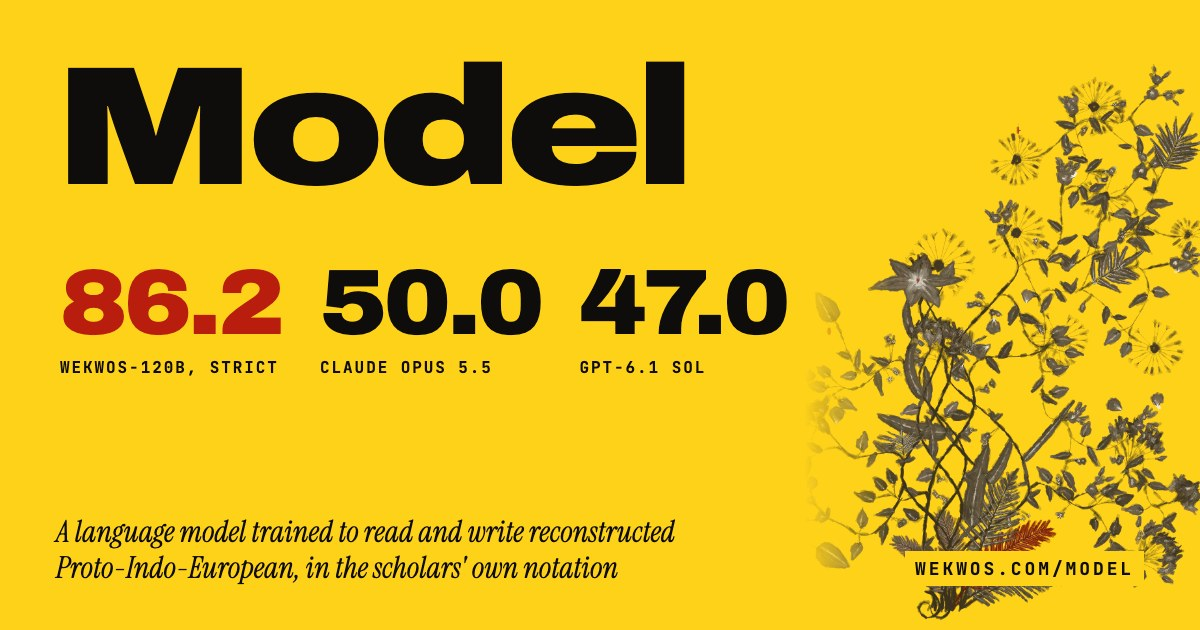
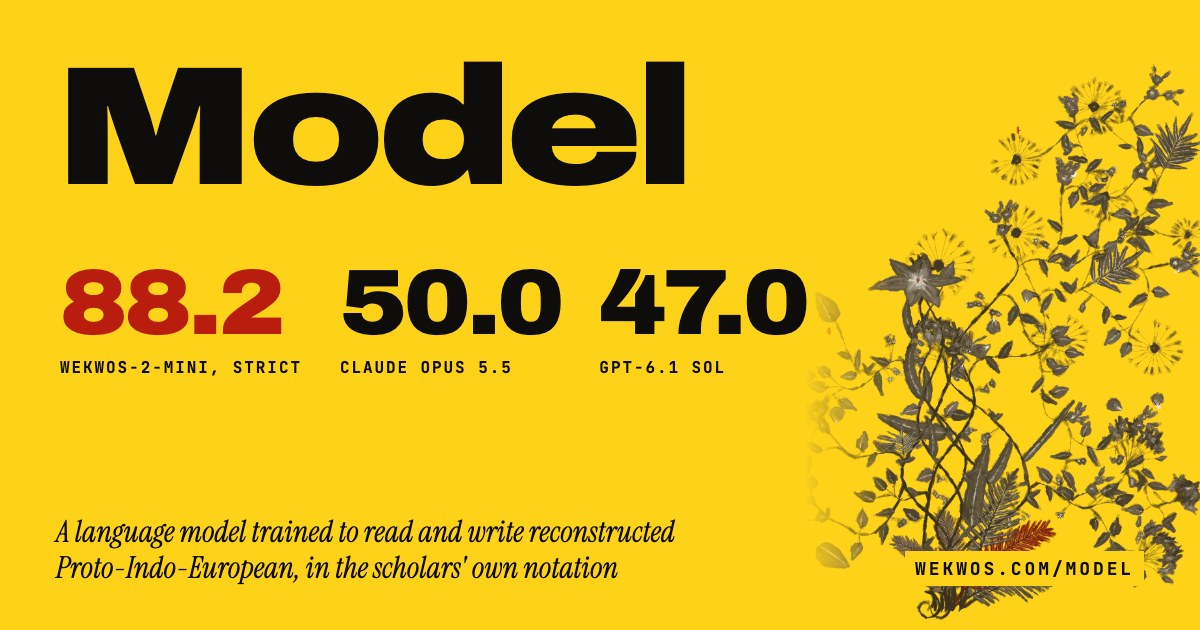
Update benchmarks and model page for Wekwos-2-Mini (88.2 strict / 90.5 lenient)

diff --git a/model.html b/model.html
@@ -5,24 +5,24 @@
 <script>/* light unless the reader chose dark (js/theme.js), set before the first paint */(function(r){var t;try{t=localStorage.getItem("pie-theme")}catch(e){}r.setAttribute("data-theme",t==="dark"?"dark":"light");if(t==="dark")r.classList.add("dark")})(document.documentElement)</script>
 <meta name="viewport" content="width=device-width,initial-scale=1">
 <title>How I trained a model to speak Proto-Indo-European · *PIE</title>
-<meta name="description" content="How I taught a language model to read and write Proto-Indo-European: an 8,368-entry lexicon, a deterministic grammar engine, a 133,982-word corpus, fine-tuning Nemotron 3.5 Super, and reinforcement learning, scoring 86.2 strict against 50.0 for the best frontier run.">
+<meta name="description" content="How I taught language models to read and write Proto-Indo-European: an 8,368-entry lexicon, a deterministic grammar engine, a 133,982-word corpus, fine-tuning, chain-of-thought, and reinforcement learning, with Wekwos-2-Mini scoring 88.2 strict against 50.0 for the best frontier run.">
 <link rel="canonical" href="https://wekwos.com/model">
 <meta name="theme-color" content="#ffd21a">
 <meta property="og:type" content="article">
 <meta property="og:site_name" content="*PIE">
 <meta property="og:title" content="How I trained a model to speak Proto-Indo-European · *PIE">
-<meta property="og:description" content="A lexicon, a grammar engine, a corpus composed through it, fine-tuning and reinforcement learning: Wekwos-120B scores 86.2 strict on my benchmark against 50.0 for Claude Opus 5.5.">
+<meta property="og:description" content="A lexicon, a grammar engine, a corpus composed through it, engine-verified CoT fine-tuning and GRPO reinforcement learning: Wekwos-2-Mini scores 88.2 strict (90.5 lenient) on my benchmark against 50.0 for Claude Opus 5.5.">
 <meta property="og:url" content="https://wekwos.com/model">
 <meta property="og:image" content="https://wekwos.com/art/og/model.jpg">
 <meta property="og:image:width" content="1200">
 <meta property="og:image:height" content="630">
-<meta property="og:image:alt" content="The word Model above the benchmark scores: 86.2 strict for Wekwos-120B against 50.0 for Claude Opus 5.5 and 47.0 for GPT-6.1 Sol.">
+<meta property="og:image:alt" content="The word Model above the benchmark scores: 88.2 strict for Wekwos-2-Mini against 50.0 for Claude Opus 5.5 and 47.0 for GPT-6.1 Sol.">
 <meta property="og:locale" content="en_US">
 <meta name="twitter:card" content="summary_large_image">
 <meta name="twitter:title" content="How I trained a model to speak Proto-Indo-European · *PIE">
-<meta name="twitter:description" content="A lexicon, a grammar engine, a corpus composed through it, fine-tuning and reinforcement learning: Wekwos-120B scores 86.2 strict against 50.0 for the best frontier run.">
+<meta name="twitter:description" content="A lexicon, a grammar engine, a corpus composed through it, engine-verified CoT fine-tuning and GRPO RL: Wekwos-2-Mini scores 88.2 strict against 50.0 for the best frontier run.">
 <meta name="twitter:image" content="https://wekwos.com/art/og/model.jpg">
-<meta name="twitter:image:alt" content="The word Model above the benchmark scores: 86.2 strict for Wekwos-120B against 50.0 for Claude Opus 5.5 and 47.0 for GPT-6.1 Sol.">
+<meta name="twitter:image:alt" content="The word Model above the benchmark scores: 88.2 strict for Wekwos-2-Mini against 50.0 for Claude Opus 5.5 and 47.0 for GPT-6.1 Sol.">
 <link rel="apple-touch-icon" href="art/icon-180.png">
 <link rel="manifest" href="site.webmanifest">
 <script type="application/ld+json">{"@context": "https://schema.org", "@type": "TechArticle", "headline": "How I trained a model to speak Proto-Indo-European", "url": "https://wekwos.com/model", "inLanguage": "en", "author": {"@type": "Person", "name": "David Torcivia", "url": "https://davidtorcivia.com"}, "about": ["Proto-Indo-European", "language model", "fine-tuning", "reinforcement learning", "historical linguistics"], "isPartOf": {"@type": "WebSite", "name": "*PIE", "url": "https://wekwos.com/"}}</script>
@@ -73,37 +73,37 @@
 
   <section class="sec" id="result">
     <h2 class="display v-h2"><span>The result</span></h2>
-    <p class="lead book"><span class="ini drop">O</span>n my held-out benchmark, the final model scores 88.5 lenient and 86.2 strict. The strongest frontier runs I tested (Claude Opus 5.5 at xhigh and GPT-6.1 Sol at high) hit 86.0 and 84.4 lenient, then drop to 50.0 and 47.0 strict. Lenient scoring ignores notation (accents, vowel length, ASCII spellings like h2 for h₂) and only checks the grammar. Strict scoring requires the actual scholarly form. Frontier models lose more than 35 points under strict grading; mine loses 2.3.</p>
+    <p class="lead book"><span class="ini drop">O</span>n my held-out benchmark, my top model, Wekwos-2-Mini (trained on Thinking Machines' Inkling 2 Mini with engine-verified chain of thought and GRPO RL), scores 90.5 lenient and 88.2 strict. It edges past my earlier 120B flagship, Wekwos-120B (Nemotron 3.5 Super, 88.5 lenient and 86.2 strict), at a fraction of the size. The strongest frontier runs I tested (Claude Opus 5.5 at xhigh and GPT-6.1 Sol at high) hit 86.0 and 84.4 lenient, then drop to 50.0 and 47.0 strict. Lenient scoring ignores notation (accents, vowel length, ASCII spellings like h2 for h₂) and only checks the grammar. Strict scoring requires the actual scholarly form. Frontier models lose more than 35 points under strict grading; mine lose 2.3.</p>
     <div class="nums" aria-label="Headline numbers">
-      <div><b class="display">86.2</b><span class="serif">strict benchmark score, vs. 50.0 for Claude Opus 5.5 and 47.0 for GPT-6.1 Sol</span></div>
+      <div><b class="display">88.2</b><span class="serif">strict benchmark score for Wekwos-2-Mini (90.5 lenient), vs. 50.0 for Claude Opus 5.5 and 47.0 for GPT-6.1 Sol</span></div>
       <div><b class="display">98.8%</b><span class="serif">of Wiktionary's inflection cells regenerated from scratch by the grammar engine</span></div>
-      <div><b class="display" style="white-space:nowrap">78 → 3</b><span class="serif">English words the model failed to produce in PIE, before and after the last training rounds</span></div>
+      <div><b class="display" style="white-space:nowrap">+8.5</b><span class="serif">strict points gained on Inkling 2 Mini just from adding engine-verified chain of thought before RL</span></div>
       <div><b class="display">133,982</b><span class="serif">words of PIE composed through the engine and checked in adversarial review</span></div>
     </div>
     <p class="book">The hard part was building the training data. There are no native speakers, no recordings, and no ancient texts to scrape, only a century and a half of comparative scholarship written in a dense notation: three laryngeals (h₁, h₂, h₃), three rows of back consonants (ḱ, k, kʷ), breathy-voiced stops, syllabic resonants, and pitch accents. Because PIE was only ever spoken, even the handbooks disagree on details of pronunciation and spelling. A model can't pick that up from Common Crawl the way it picks up French. I was honestly surprised how well frontier models did on lenient grading (mostly thanks to famous reconstructions like Schleicher's fable floating around in pretraining), but getting a model to write clean, consistent PIE took a proper lexicon, a deterministic grammar engine, and a corpus built through both.</p>
     <figure class="fig" id="fig1">
       <div class="chart" id="chBench"></div>
-      <figcaption class="serif"><b>Figure 1.</b> The benchmark. Solid bars are the strict score, the hatched extension is lenient. The overall score weights English → PIE 30, inflection and PIE → English 20 each, paradigms and dialogue 15 each. Wekwos-120B is a fine-tuned Nemotron 3.5 Super.</figcaption>
+      <figcaption class="serif"><b>Figure 1.</b> The benchmark. Solid bars are the strict score, the hatched extension is lenient. The overall score weights English → PIE 30, inflection and PIE → English 20 each, paradigms and dialogue 15 each. Wekwos-2-Mini is Inkling 2 Mini (CoT SFT + GRPO RL, scored by the Opus judge with engine tools, where Wekwos-120B scores 86.1 strict / 88.3 lenient); Wekwos-120B is a fine-tuned Nemotron 3.5 Super.</figcaption>
     </figure>
     <figure class="fig fig-ex" id="fig1b">
       <div class="bex">
         <article class="bex-card">
           <header class="bex-head"><span class="bex-seg data">English → PIE</span><span class="bex-prompt serif">“May good fame be his.”</span></header>
-          <div class="bex-row bex-mine"><span class="bex-who serif">Wekwos-120B</span><span class="bex-ans pie" data-pie>h₁wésu ḱléwos h₁ésmey h₁syéh₁t.</span><span class="bex-sc data ok">strict ✓ · lenient ✓</span></div>
+          <div class="bex-row bex-mine"><span class="bex-who serif">Wekwos-2-Mini</span><span class="bex-ans pie" data-pie>h₁wésu ḱléwos h₁ésmey h₁syéh₁t.</span><span class="bex-sc data ok">strict ✓ · lenient ✓</span></div>
           <div class="bex-row"><span class="bex-who serif">Claude Opus 5.5</span><span class="bex-ans pie">h₁wésu <u class="ex-miss">soi</u> ḱléwos <u class="ex-miss">h₁siéh₁t</u>.</span><span class="bex-sc data miss">strict ✗ · lenient ✓</span></div>
           <div class="bex-row"><span class="bex-who serif">GPT-6.1 Sol</span><span class="bex-ans pie">*h₁ésu ḱléwos <u class="ex-miss">tósmai</u> <u class="ex-miss">h₁siéh₁t</u>.</span><span class="bex-sc data miss">strict ✗ · lenient ✓</span></div>
           <p class="bex-note serif">Both frontier models get the meaning and optative verb right, but miss on notation (writing <i>soi</i> for <i>soy</i>, <i>tósmai</i> for <i>tósmey</i>, and syllabic <i>i</i> in <i>h₁siéh₁t</i> instead of glide <i>y</i>).</p>
         </article>
         <article class="bex-card">
           <header class="bex-head"><span class="bex-seg data">English → PIE</span><span class="bex-prompt serif">“I fashion words for him.”</span></header>
-          <div class="bex-row bex-mine"><span class="bex-who serif">Wekwos-120B</span><span class="bex-ans pie" data-pie>tósmey wékʷesh₂ tḗtḱmi.</span><span class="bex-sc data ok">strict ✓ · lenient ✓</span></div>
+          <div class="bex-row bex-mine"><span class="bex-who serif">Wekwos-2-Mini</span><span class="bex-ans pie" data-pie>h₁ésmey wékʷesh₂ tḗtḱmi.</span><span class="bex-sc data ok">strict ✓ · lenient ✓</span></div>
           <div class="bex-row"><span class="bex-who serif">Claude Opus 5.5</span><span class="bex-ans pie">wékʷesh₂ <u class="ex-miss">soi</u> téḱsoh₂.</span><span class="bex-sc data miss">strict ✗ · lenient ✓</span></div>
           <div class="bex-row"><span class="bex-who serif">GPT-6.1 Sol</span><span class="bex-ans pie">*<u class="ex-miss">h₁eǵṓ</u> wékʷesh₂ <u class="ex-miss">tósmai</u> <u class="ex-miss">téḱsō</u>.</span><span class="bex-sc data miss">strict ✗ · lenient ✓</span></div>
-          <p class="bex-note serif">Opus misses on <i>soi</i>; GPT drops final laryngeals in <i>h₁eǵṓ</i> (<i>h₁eǵóh₂</i>) and <i>téḱsō</i> (<i>-oh₂</i>), and writes <i>tósmai</i>. Wekwos-120B uses the Narten present <i>tḗtḱmi</i> and dative <i>tósmey</i>.</p>
+          <p class="bex-note serif">Opus misses on <i>soi</i>; GPT drops final laryngeals in <i>h₁eǵṓ</i> (<i>h₁eǵóh₂</i>) and <i>téḱsō</i> (<i>-oh₂</i>), and writes <i>tósmai</i>. Wekwos-2-Mini uses the Narten present <i>tḗtḱmi</i> and anaphoric dative <i>h₁ésmey</i>.</p>
         </article>
         <article class="bex-card">
           <header class="bex-head"><span class="bex-seg data">Dialogue</span><span class="bex-prompt serif">“Brother, what is fame?”</span></header>
-          <div class="bex-row bex-mine"><span class="bex-who serif">Wekwos-120B</span><span class="bex-ans pie"><span data-pie>h₁íd tód h₁léwdʰis h₁yód ḱlush₁yéti. h₂nḗr mért h₁ésyo h₁nómn̥ ne mért.</span><small class="bex-gloss serif">“It is what the people hear. A man died; his name did not die.”</small></span><span class="bex-sc data ok">strict ✓ · lenient ✓</span></div>
+          <div class="bex-row bex-mine"><span class="bex-who serif">Wekwos-2-Mini</span><span class="bex-ans pie"><span data-pie>h₁íd tód h₁léwdʰis h₁yód ḱlush₁yéti. h₂nḗr mért h₁ésyo h₁nómn̥ ne mért.</span><small class="bex-gloss serif">“It is what the people hear. A man died; his name did not die.”</small></span><span class="bex-sc data ok">strict ✓ · lenient ✓</span></div>
           <div class="bex-row"><span class="bex-who serif">Claude Opus 5.5</span><span class="bex-ans pie">bʰréh₂ter, ḱléwos h₁ésti wékʷos, <u class="ex-miss">yód</u> h₂néres ḱl̥nwénti. h₂nḗr mr̥yétor; ḱléwos tu n̥dʰgʷʰitóm h₁ésti.</span><span class="bex-sc data miss">strict ✗ · lenient ✓</span></div>
           <div class="bex-row"><span class="bex-who serif">GPT-6.1 Sol</span><span class="bex-ans pie">bʰréh₂ter, ḱléwos <u class="ex-miss">wésu</u> h₁nómn̥ h₁ésti.</span><span class="bex-sc data miss">strict ✗ · lenient ✓</span></div>
           <p class="bex-note serif">All three write grammatical PIE; both frontier models drop initial laryngeals (<i>yód</i> for <i>h₁yód</i>, <i>wésu</i> for <i>h₁wésu</i>).</p>
@@ -150,7 +150,7 @@
 
   <section class="sec" id="sft">
     <h2 class="display v-h2"><span>Fine-tuning</span></h2>
-    <p class="lead book"><span class="ini drop">I</span> ended up settling on Nemotron 3.5 Super, NVIDIA's 120-billion-parameter mixture of experts (12B active), as the final base. After fine-tuning it hit 88.5 lenient and 86.2 strict, taking first place on the benchmark overall, though it took a few smaller models and dead ends to get there.</p>
+    <p class="lead book"><span class="ini drop">I</span> scaled up through several bases before landing on my first flagship, Wekwos-120B (built on Nemotron 3.5 Super, NVIDIA's 120-billion-parameter mixture of experts with 12B active). After fine-tuning it hit 88.5 lenient and 86.2 strict, holding first place on the benchmark until a much smaller reasoning model caught up and passed it.</p>
     <p class="book">The corpus was exported into 47,088 conversation turns (system prompts included), with 713 held out for testing. Roughly half are translations in both directions; the rest cover English and PIE dialogue, interlinear glosses, single inflections, full paradigms, cognate-to-PIE reconstruction, and continuing hymns or charms.</p>
     <figure class="fig" id="fig4">
       <div class="chart" id="chExport"></div>
@@ -178,7 +178,13 @@
       <div class="chart" id="chStages"></div>
       <figcaption class="serif"><b>Figure 7.</b> Late training stages on the held-out sets: overall chrF, English → PIE chrF, paradigm cell accuracy, and how many of the 83 targeted words the model still couldn't produce.</figcaption>
     </figure>
-    <p class="book">The final round still trails the pre-vocab checkpoint by about a point of chrF and a sliver on paradigm cells. I tried blending the two adapters directly (taking a weighted sum of their weight deltas), but every ratio traded the new vocabulary straight off against grammar, and none beat the final round outright.</p>
+    <p class="book">The final round on Nemotron still trailed the pre-vocab checkpoint by about a point of chrF and a sliver on paradigm cells. I tried blending the two adapters directly (taking a weighted sum of their weight deltas), but every ratio traded the new vocabulary straight off against grammar, and none beat the final round outright.</p>
+    <p class="book">Then Thinking Machines released Inkling 2 Mini, a much smaller looped mixture-of-experts model with a native thinking channel (24 layers, 128 routed experts with 8 active, looping its 12-layer core three times). Plain direct fine-tuning on the same corpus only reached 76.9 strict (79.6 lenient), well behind the 120B model. The unlock was teaching it to actually use its scratchpad for PIE morphology: I generated 58,040 engine-verified chain-of-thought examples that decompose every English → PIE sentence into sense, lemma, grammatical features, and surface form, write out stem and ending deltas for inflections, and disambiguate homophones before answering. That single change jumped Inkling 2 Mini by 8.5 points to 85.4 strict (89.2 lenient).</p>
+    <p class="book">From that checkpoint, two rounds of GRPO reinforcement learning on Tinker (with 100% deterministic, zero-API rewards from the grammar engine and analyzer: 7,650 broad prompts in round 2, then 4,313 prompts focused on English → PIE and dialogue in round 3) pushed it past the 120B model to 88.2 strict and 90.5 lenient: 90.4 on inflection, 89.6 on paradigms, 85.7 strict on English → PIE (up 4.7 points over Wekwos-120B), 89.3 on PIE → English, and 87.5 on dialogue. That checkpoint is Wekwos-2-Mini.</p>
+    <figure class="fig" id="fig8">
+      <div class="chart" id="chInkling"></div>
+      <figcaption class="serif"><b>Figure 8.</b> From direct fine-tuning to Wekwos-2-Mini on Inkling 2 Mini (weighted strict ● and lenient ○ on the held-out benchmark, with Wekwos-120B shown for reference). Engine-verified chain of thought accounts for an 8.5-point strict jump; two deterministic GRPO RL rounds add another 2.8 points.</figcaption>
+    </figure>
   </section>
 
   <hr>
@@ -195,11 +201,11 @@
 <section class="v-mat ink" data-tone="ink" id="materials">
   <h2 class="display v-h2">Model, corpus and benchmark</h2>
   <div class="mat" id="mat">
-    <div class="m-item" data-link="model"><h3 class="display">The model</h3><p class="serif">Wekwos-120B, the fine-tuned Nemotron 3.5 Super that reads and writes PIE in the scholars' notation.</p></div>
+    <div class="m-item" data-link="model"><h3 class="display">The model</h3><p class="serif">Wekwos-120B (MLX, BF16, GGUF, and LoRA on Hugging Face) and the new flagship Wekwos-2-Mini (Inkling 2 Mini, CoT SFT + GRPO RL).</p></div>
     <div class="m-item" data-link="corpus"><h3 class="display">The corpus</h3><p class="serif">5,230 records in four tiers, each with its English and its source, and the 47,088 training conversations made from them.</p></div>
     <div class="m-item" data-link="benchmark"><h3 class="display">The benchmark</h3><p class="serif">The held-out questions and reference answers, the scorer and the judges' instructions, and every model's answers and scores.</p></div>
   </div>
-  <p class="serif mat-credit">Nemotron 3.5 Super by NVIDIA. Fine-tuned on Tinker by Thinking Machines; reinforcement learning with mlx-lm-lora. The lexicon draws on Wiktionary (CC BY-SA 4.0), LIV² and the <i>Nomina im Indogermanischen Lexikon</i>. Rubrication by <a href="https://illum.davidtorcivia.com">illum</a>, after the pecked and painted rock carvings of Tanum, Bohuslän (Vitlycke, Tanumshede). Figures traced from photographs by Bengt A. Lundberg, Riksantikvarieämbetet (<a href="https://creativecommons.org/licenses/by/2.5/">CC BY 2.5</a>), Bjoertvedt (<a href="https://creativecommons.org/licenses/by-sa/3.0/">CC BY-SA 3.0</a>) and Tulipasylvestris (<a href="https://creativecommons.org/publicdomain/zero/1.0/">CC0</a>), Wikimedia Commons.</p>
+  <p class="serif mat-credit">Inkling 2 Mini and Tinker by Thinking Machines; Nemotron 3.5 Super by NVIDIA; local reinforcement learning with mlx-lm-lora. The lexicon draws on Wiktionary (CC BY-SA 4.0), LIV² and the <i>Nomina im Indogermanischen Lexikon</i>. Rubrication by <a href="https://illum.davidtorcivia.com">illum</a>, after the pecked and painted rock carvings of Tanum, Bohuslän (Vitlycke, Tanumshede). Figures traced from photographs by Bengt A. Lundberg, Riksantikvarieämbetet (<a href="https://creativecommons.org/licenses/by/2.5/">CC BY 2.5</a>), Bjoertvedt (<a href="https://creativecommons.org/licenses/by-sa/3.0/">CC BY-SA 3.0</a>) and Tulipasylvestris (<a href="https://creativecommons.org/publicdomain/zero/1.0/">CC0</a>), Wikimedia Commons.</p>
 </section>
 
 

diff --git a/js/model.js b/js/model.js
@@ -12,8 +12,8 @@ const reduce = matchMedia('(prefers-reduced-motion: reduce)').matches;
 const esc = s => String(s ?? '').replace(/[&<>"]/g, c => ({ '&': '&amp;', '<': '&lt;', '>': '&gt;', '"': '&quot;' })[c]);
 const fmt = (v, d = 1) => v == null ? '–' : Number(v).toLocaleString('en-US', { minimumFractionDigits: d, maximumFractionDigits: d });
 const pct = (v, lo, hi) => Math.max(0, Math.min(100, (v - lo) / (hi - lo) * 100));
-// ours, then the two frontier runs; on the dark ground the near-black run turns to bone and the red brightens
-const LIGHT = ['#b81d0e', '#2a2219', '#7a6a4f'], DARK = ['#e0452a', '#cfc3a8', '#8a7a5c'];
+// Wekwos-2-Mini, Wekwos-120B, then the two frontier runs; on the dark ground the near-black run turns to bone and the accents brighten
+const LIGHT = ['#b81d0e', '#c96f16', '#2a2219', '#7a6a4f'], DARK = ['#e0452a', '#e09a3e', '#cfc3a8', '#8a7a5c'];
 let C = LIGHT;
 
 // a horizontal bar: strict solid, lenient hatched beyond it, over subtle 25/50/75 scale guides
@@ -30,21 +30,21 @@ function bench(F) {
 
 // dots on a zoomed scale, with the scale's ends labelled
 const dotRows = (rows, lo, hi, d = 1, unit = '') => `<div class="dr">${rows.map(([label, v, color]) =>
-  `<div class="dr-row" title="${esc(label)}: ${fmt(v, d)}${unit}"><span class="dr-l serif">${esc(label)}</span><span class="dr-track"><i style="left:${pct(v, lo, hi)}%;background:${color || C[1]}"></i></span><span class="dr-v data">${fmt(v, d)}${unit}</span></div>`).join('')}
+  `<div class="dr-row" title="${esc(label)}: ${fmt(v, d)}${unit}"><span class="dr-l serif">${esc(label)}</span><span class="dr-track"><i style="left:${pct(v, lo, hi)}%;background:${color || C[2]}"></i></span><span class="dr-v data">${fmt(v, d)}${unit}</span></div>`).join('')}
   <div class="dr-axis data"><span></span><span class="dr-ends"><em>${fmt(lo, d)}${unit}</em><em>${fmt(hi, d)}${unit}</em></span><span></span></div></div>`;
 
 function engine(F) {
-  $('#chEngine').innerHTML = dotRows(F.engine_classes.map(([n, a, b]) => [`${n} (${a.toLocaleString()} of ${b.toLocaleString()})`, a / b * 100, a === b ? C[0] : C[1]]), 90, 100, 1, '%');
+  $('#chEngine').innerHTML = dotRows(F.engine_classes.map(([n, a, b]) => [`${n} (${a.toLocaleString()} of ${b.toLocaleString()})`, a / b * 100, a === b ? C[0] : C[2]]), 90, 100, 1, '%');
 }
 
 // plain bars from zero, values written beside; optional per-row accent color
-const barRows = (rows, max, d = 0, color = C[1]) => `<div class="br">${rows.map(([label, v, rowColor]) =>
+const barRows = (rows, max, d = 0, color = C[2]) => `<div class="br">${rows.map(([label, v, rowColor]) =>
   `<div class="br-row" title="${esc(label)}: ${fmt(v, d)}"><span class="br-l serif">${esc(label)}</span><span class="br-track"><i style="width:${Math.max(.8, v / max * 100)}%;background:${rowColor || color}"></i></span><span class="br-v data">${fmt(v, d)}</span></div>`).join('')}</div>`;
 
 function corpus(F) {
   const T = F.corpus;
-  $('#chCorpus').innerHTML = `<div class="m-two"><div><h4 class="m-h data">Records</h4>${barRows(T.map(t => [t.name, t.records, t.tier === 'tier3' ? C[0] : C[1]]), Math.max(...T.map(t => t.records)))}</div>
-    <div><h4 class="m-h data">Words of PIE</h4>${barRows(T.map(t => [t.name, t.words, t.tier === 'tier3' ? C[0] : C[1]]), Math.max(...T.map(t => t.words)))}</div></div>`;
+  $('#chCorpus').innerHTML = `<div class="m-two"><div><h4 class="m-h data">Records</h4>${barRows(T.map(t => [t.name, t.records, t.tier === 'tier3' ? C[0] : C[2]]), Math.max(...T.map(t => t.records)))}</div>
+    <div><h4 class="m-h data">Words of PIE</h4>${barRows(T.map(t => [t.name, t.words, t.tier === 'tier3' ? C[0] : C[2]]), Math.max(...T.map(t => t.words)))}</div></div>`;
 }
 
 const KIND = { translate_app: 'translation, app sessions', inflect: 'single inflected forms', en_dialogue: 'dialogue, English turns', gloss: 'interlinear gloss',
@@ -52,12 +52,12 @@ const KIND = { translate_app: 'translation, app sessions', inflect: 'single infl
   pie_dialogue: 'dialogue, PIE turns', continuation: 'continuing a text', app_session: 'app sessions, several turns', demo_chat: 'demo conversations' };
 function exportMix(F) {
   const k = F.export.by_kind;
-  $('#chExport').innerHTML = barRows(k.map(([id, n], i) => [KIND[id] || id, n, i === 0 ? C[0] : C[1]]), k[0][1]);
+  $('#chExport').innerHTML = barRows(k.map(([id, n], i) => [KIND[id] || id, n, i === 0 ? C[0] : C[2]]), k[0][1]);
 }
 
 function sweep(F) {
   const E = F.epochs;
-  $('#chSweep').innerHTML = `<div class="m-two"><div><h4 class="m-h data">Held-out loss after 100 steps</h4>${barRows(F.sweep.map(([n, v], i) => [n.replace(/r(\d+)$/, 'rank $1'), v, i === 0 ? C[0] : C[1]]), .65, 3)}</div>
+  $('#chSweep').innerHTML = `<div class="m-two"><div><h4 class="m-h data">Held-out loss after 100 steps</h4>${barRows(F.sweep.map(([n, v], i) => [n.replace(/r(\d+)$/, 'rank $1'), v, i === 0 ? C[0] : C[2]]), .65, 3)}</div>
     <div><h4 class="m-h data">Held-out loss by epoch</h4>${dotRows(E.map(e => [`epoch ${e.epoch}`, e.nll]), .2, .35, 3)}
       <h4 class="m-h data m-h2">Benchmark, strict ● and lenient ○</h4>
       <div class="dr">${E.map(e => `<div class="dr-row" title="epoch ${e.epoch}: ${fmt(e.strict)} strict, ${fmt(e.lenient)} lenient"><span class="dr-l serif">epoch ${e.epoch}</span><span class="dr-track"><i style="left:${pct(e.strict, 82, 90)}%;background:${C[0]}"></i><i class="o" style="left:${pct(e.lenient, 82, 90)}%;border-color:${C[0]}"></i></span><span class="dr-v data">${fmt(e.strict)}/${fmt(e.lenient)}</span></div>`).join('')}
@@ -90,13 +90,22 @@ function curve(F) {
   const W = narrow ? PW : PW * 2 + gapX, H = narrow ? PH * 2 + gapY : PH;
   $('#chCurve').innerHTML = `<svg viewBox="0 0 ${W} ${H}" class="m-svg" role="img" aria-label="Mean reward and KL divergence from starting weights over 150 steps">
     ${panel('Mean reward', 2, .6, 1, C[0], null, 0, 0)}
-    ${panel('KL from the starting weights', 1, 0, .3, C[1], .3, narrow ? 0 : PW + gapX, narrow ? PH + gapY : 0)}
+    ${panel('KL from the starting weights', 1, 0, .3, C[2], .3, narrow ? 0 : PW + gapX, narrow ? PH + gapY : 0)}
   </svg>`;
 }
 
 function stages(F) {
-  const S = F.stages, col = (title, key, lo, hi, d, unit = '') => `<div><h4 class="m-h data">${title}</h4>${dotRows(S.filter(s => s[key] != null).map(s => [s.name, s[key], s.name.startsWith('Final RL') ? C[0] : C[1]]), lo, hi, d, unit)}</div>`;
+  const S = F.stages, col = (title, key, lo, hi, d, unit = '') => `<div><h4 class="m-h data">${title}</h4>${dotRows(S.filter(s => s[key] != null).map(s => [s.name, s[key], s.name.startsWith('Final RL') ? C[0] : C[2]]), lo, hi, d, unit)}</div>`;
   $('#chStages').innerHTML = `<div class="m-grid2">${col('chrF, all prompts', 'chrF', 70, 74, 2)}${col('English → PIE chrF', 'en_pie', 72, 80, 1)}${col('Paradigm cells', 'cells', .87, .91, 3)}${col('Targeted words never right, of 83', 'never', 0, 80, 0)}</div>`;
+}
+
+function inkling(F) {
+  const el = $('#chInkling');
+  if (!el || !F.inkling) return;
+  el.innerHTML = `<h4 class="m-h data">Weighted benchmark score, strict ● and lenient ○</h4><div class="dr">${F.inkling.map(r => {
+    const col = r.top ? C[0] : r.ref ? C[1] : C[2];
+    return `<div class="dr-row${r.top ? ' mb-ours' : ''}" title="${esc(r.name)}: ${fmt(r.strict)} strict, ${fmt(r.lenient)} lenient"><span class="dr-l serif">${esc(r.name)}</span><span class="dr-track"><i style="left:${pct(r.strict, 75, 92)}%;background:${col}"></i><i class="o" style="left:${pct(r.lenient, 75, 92)}%;border-color:${col}"></i></span><span class="dr-v data"><b>${fmt(r.strict)}</b>/${fmt(r.lenient)}</span></div>`;
+  }).join('')}<div class="dr-axis data"><span></span><span class="dr-ends"><em>75</em><em>92</em></span><span></span></div></div>`;
 }
 
 function garden() {
@@ -165,7 +174,7 @@ async function boot() {
   garden(); herd(); wireToc();
 
   const F = await figsP;
-  const figs = () => { C = isDark() ? DARK : LIGHT; bench(F); engine(F); corpus(F); exportMix(F); sweep(F); curve(F); stages(F); };
+  const figs = () => { C = isDark() ? DARK : LIGHT; bench(F); engine(F); corpus(F); exportMix(F); sweep(F); curve(F); stages(F); inkling(F); };
   figs(); addEventListener('themechange', figs);
   matchMedia('(max-width: 760px)').addEventListener('change', () => curve(F));
   rubric();

diff --git a/js/main.js b/js/main.js
@@ -193,7 +193,7 @@ function machine(s) {
     ['I', s.lexicon_entries, '', 'Lexicon', 'dictionary.html', '7,401 entries from Wiktionary, 829 verbal roots transcribed from LIV², and 135 nouns from NIL, each tied back to its source.'],
     ['II', s.engine_agreement, '%', 'Grammar engine', 'model.html#engine', `Inflects nouns, adjectives and verbs by rule, reproducing ${s.engine_cells} cells from Wiktionary's published paradigms.`],
     ['III', s.records, '', 'Corpus', 'model.html#corpus', `${s.pie_words.toLocaleString('en')} words across ~50 genres: hymns, laws, riddles, laments, oaths, and everyday talk.`],
-    ['IV', 86.2, '', 'Model', 'model.html', 'Strict score on my held-out benchmark, where frontier models drop into the 40s and 50s.'],
+    ['IV', 88.2, '', 'Model', 'model.html', 'Strict score on my held-out benchmark, where frontier models drop into the 40s and 50s.'],
   ];
   $('#cascade').innerHTML = tiers.map(([rm, n, u, l, href, d]) => `<div class="tier"><div class="num" data-n="${n}" data-u="${u}">0</div><div class="lab"><b class="display"><em class="tier-i data">${rm}</em><a class="tier-go" href="${href}">${l}<span> →</span></a></b><span class="serif">${d}</span></div></div>`).join('');
   document.querySelectorAll('.tier .num').forEach(el => {
@@ -207,9 +207,14 @@ function machine(s) {
 
 // ---------------------------------------------------------------------------------------------------- results
 function results(bench) {
-  const ours = bench.find(b => b.id === 'ours-nemotron35-e3-bf16');
+  const mini = bench.find(b => b.id === 'ours-inkling2-mini-cot-v1-optionA-rl-v3-s90');
+  const nem = bench.find(b => b.id === 'ours-nemotron35-e3-bf16');
   const best = fam => bench.filter(b => b.id.startsWith(fam)).sort((a, b) => b.lenient - a.lenient)[0];
-  const rows = [{ ...ours, name: 'Wekwos-120B' }, ...['claude-opus', 'codex-gpt-6.1-sol', 'claude-sonnet', 'codex-gpt-6.1-terra', 'claude-haiku'].map(best).filter(Boolean)];
+  const rows = [
+    mini && { ...mini, name: 'Wekwos-2-Mini' },
+    nem && { ...nem, name: 'Wekwos-120B' },
+    ...['claude-opus', 'codex-gpt-6.1-sol', 'claude-sonnet', 'codex-gpt-6.1-terra', 'claude-haiku'].map(best),
+  ].filter(Boolean);
   const box = $('#bars');
   box.innerHTML = rows.map(r => `<div class="bar ${r.family === 'ours' ? 'ours' : ''}"><div class="who">${r.name}<div class="nums"><span class="sv">${r.strict.toFixed(1)}</span><span class="lv">/ ${r.lenient.toFixed(1)} lenient</span></div></div><div class="track"><canvas></canvas></div></div>`).join('')
     + `<div class="bar-axis data"><span></span><span class="bar-ticks"><em>0</em><em>25</em><em>50</em><em>75</em><em>100</em></span></div>`

diff --git a/index.html b/index.html
@@ -111,7 +111,7 @@
     <p class="serif">Every model took the same held-out test (inflection, full paradigms, two-way translation, and dialogue) with no tools. Lenient scoring checks the grammar and forgives sloppy notation like missing accents or ASCII h2 for h₂. Strict scoring demands standard scholarly PIE. Frontier models hold up fine on lenient, then drop 25 to 37 points under strict. Mine drops 2.3.</p>
   </div>
   <div class="bars" id="bars"></div>
-  <p class="serif cap res-foot">Weighted 0–100 across five task types. Frontier models ran without tools, shown at their highest lenient effort; Wekwos-120B is a fine-tuned Nemotron 3.5 Super (120B), epoch 3. <a class="inline-go" href="model.html">How the model was trained →</a></p>
+  <p class="serif cap res-foot">Weighted 0–100 across five task types. Frontier models ran without tools, shown at their highest lenient effort; Wekwos-2-Mini is Inkling 2 Mini trained with engine-verified CoT SFT and GRPO RL (ahead of Wekwos-120B, a fine-tuned Nemotron 3.5 Super). <a class="inline-go" href="model.html">How the models were trained →</a></p>
 </section>
 
 <!-- 5 · voice -->

diff --git a/css/model.css b/css/model.css
@@ -40,8 +40,8 @@
 .mb-head em { font-style: normal; font-weight: 500; opacity: .6; margin-left: .6em; }
 .mb-row { display: grid; grid-template-columns: 156px 1fr 122px; align-items: center; gap: 14px; padding: 3px 6px; margin: 0 -6px; border-radius: 3px; transition: background-color .18s ease; }
 .mb-row:hover { background: color-mix(in srgb, var(--ink) 4%, transparent); }
-.mb-row.mb-ours { background: color-mix(in srgb, #b81d0e 6.5%, transparent); }
-.mb-row.mb-ours .mb-who { font-weight: 600; color: var(--ink); }
+.mb-row.mb-ours, .dr-row.mb-ours { background: color-mix(in srgb, #b81d0e 6.5%, transparent); }
+.mb-row.mb-ours .mb-who, .dr-row.mb-ours .dr-l { font-weight: 600; color: var(--ink); }
 .mb-who { font-size: 16px; }
 .mb-track { position: relative; height: 16px; border-radius: 2px;
   background-color: color-mix(in srgb, var(--ink) 5%, transparent);

diff --git a/tools/og.html b/tools/og.html
@@ -59,7 +59,7 @@ if (page === 'home') {
 } else if (page === 'model') {
   B.className = 'yellow model';
   B.innerHTML = `<img class="garden" src="../art/garden-model.webp" style="object-position: right top; width: 33%"><h1 class="display">Model</h1>
-    <div class="row"><div class="ours"><b>86.2</b><span>Wekwos-120B, strict</span></div><div><b>50.0</b><span>Claude Opus 5.5</span></div><div><b>47.0</b><span>GPT-6.1 Sol</span></div></div>
+    <div class="row"><div class="ours"><b>88.2</b><span>Wekwos-2-Mini, strict</span></div><div><b>50.0</b><span>Claude Opus 5.5</span></div><div><b>47.0</b><span>GPT-6.1 Sol</span></div></div>
     <p class="serif">A language model trained to read and write reconstructed Proto-Indo-European, in the scholars' own notation</p>
     <span class="data url">wekwos.com/model</span>`;
 } else {

diff --git a/css/dark.css b/css/dark.css
@@ -30,7 +30,7 @@ html.dark .para tbody tr:nth-child(odd) { background: linear-gradient(90deg, rgb
 /* warm red accents lifted slightly for dark-paper legibility */
 html.dark .nums b, html.dark .m-toc a em, html.dark .tier-i, html.dark .bex-seg, html.dark .mx thead .mx-us, html.dark .mx td:last-child { color: #e0452a; }
 html.dark .mx td.p { color: #b8a684; } html.dark .mx td.n { color: #7a705f; }
-html.dark .mb-row.mb-ours, html.dark .bex-row.bex-mine { background: rgba(224, 69, 42, .12); }
+html.dark .mb-row.mb-ours, html.dark .dr-row.mb-ours, html.dark .bex-row.bex-mine { background: rgba(224, 69, 42, .12); }
 html.dark .m-stop { stroke: #e0452a; }
 html.dark .ex-miss { text-decoration-color: #e0452a; }
 html.dark .bex-sc.ok { color: #6fc19a; }
